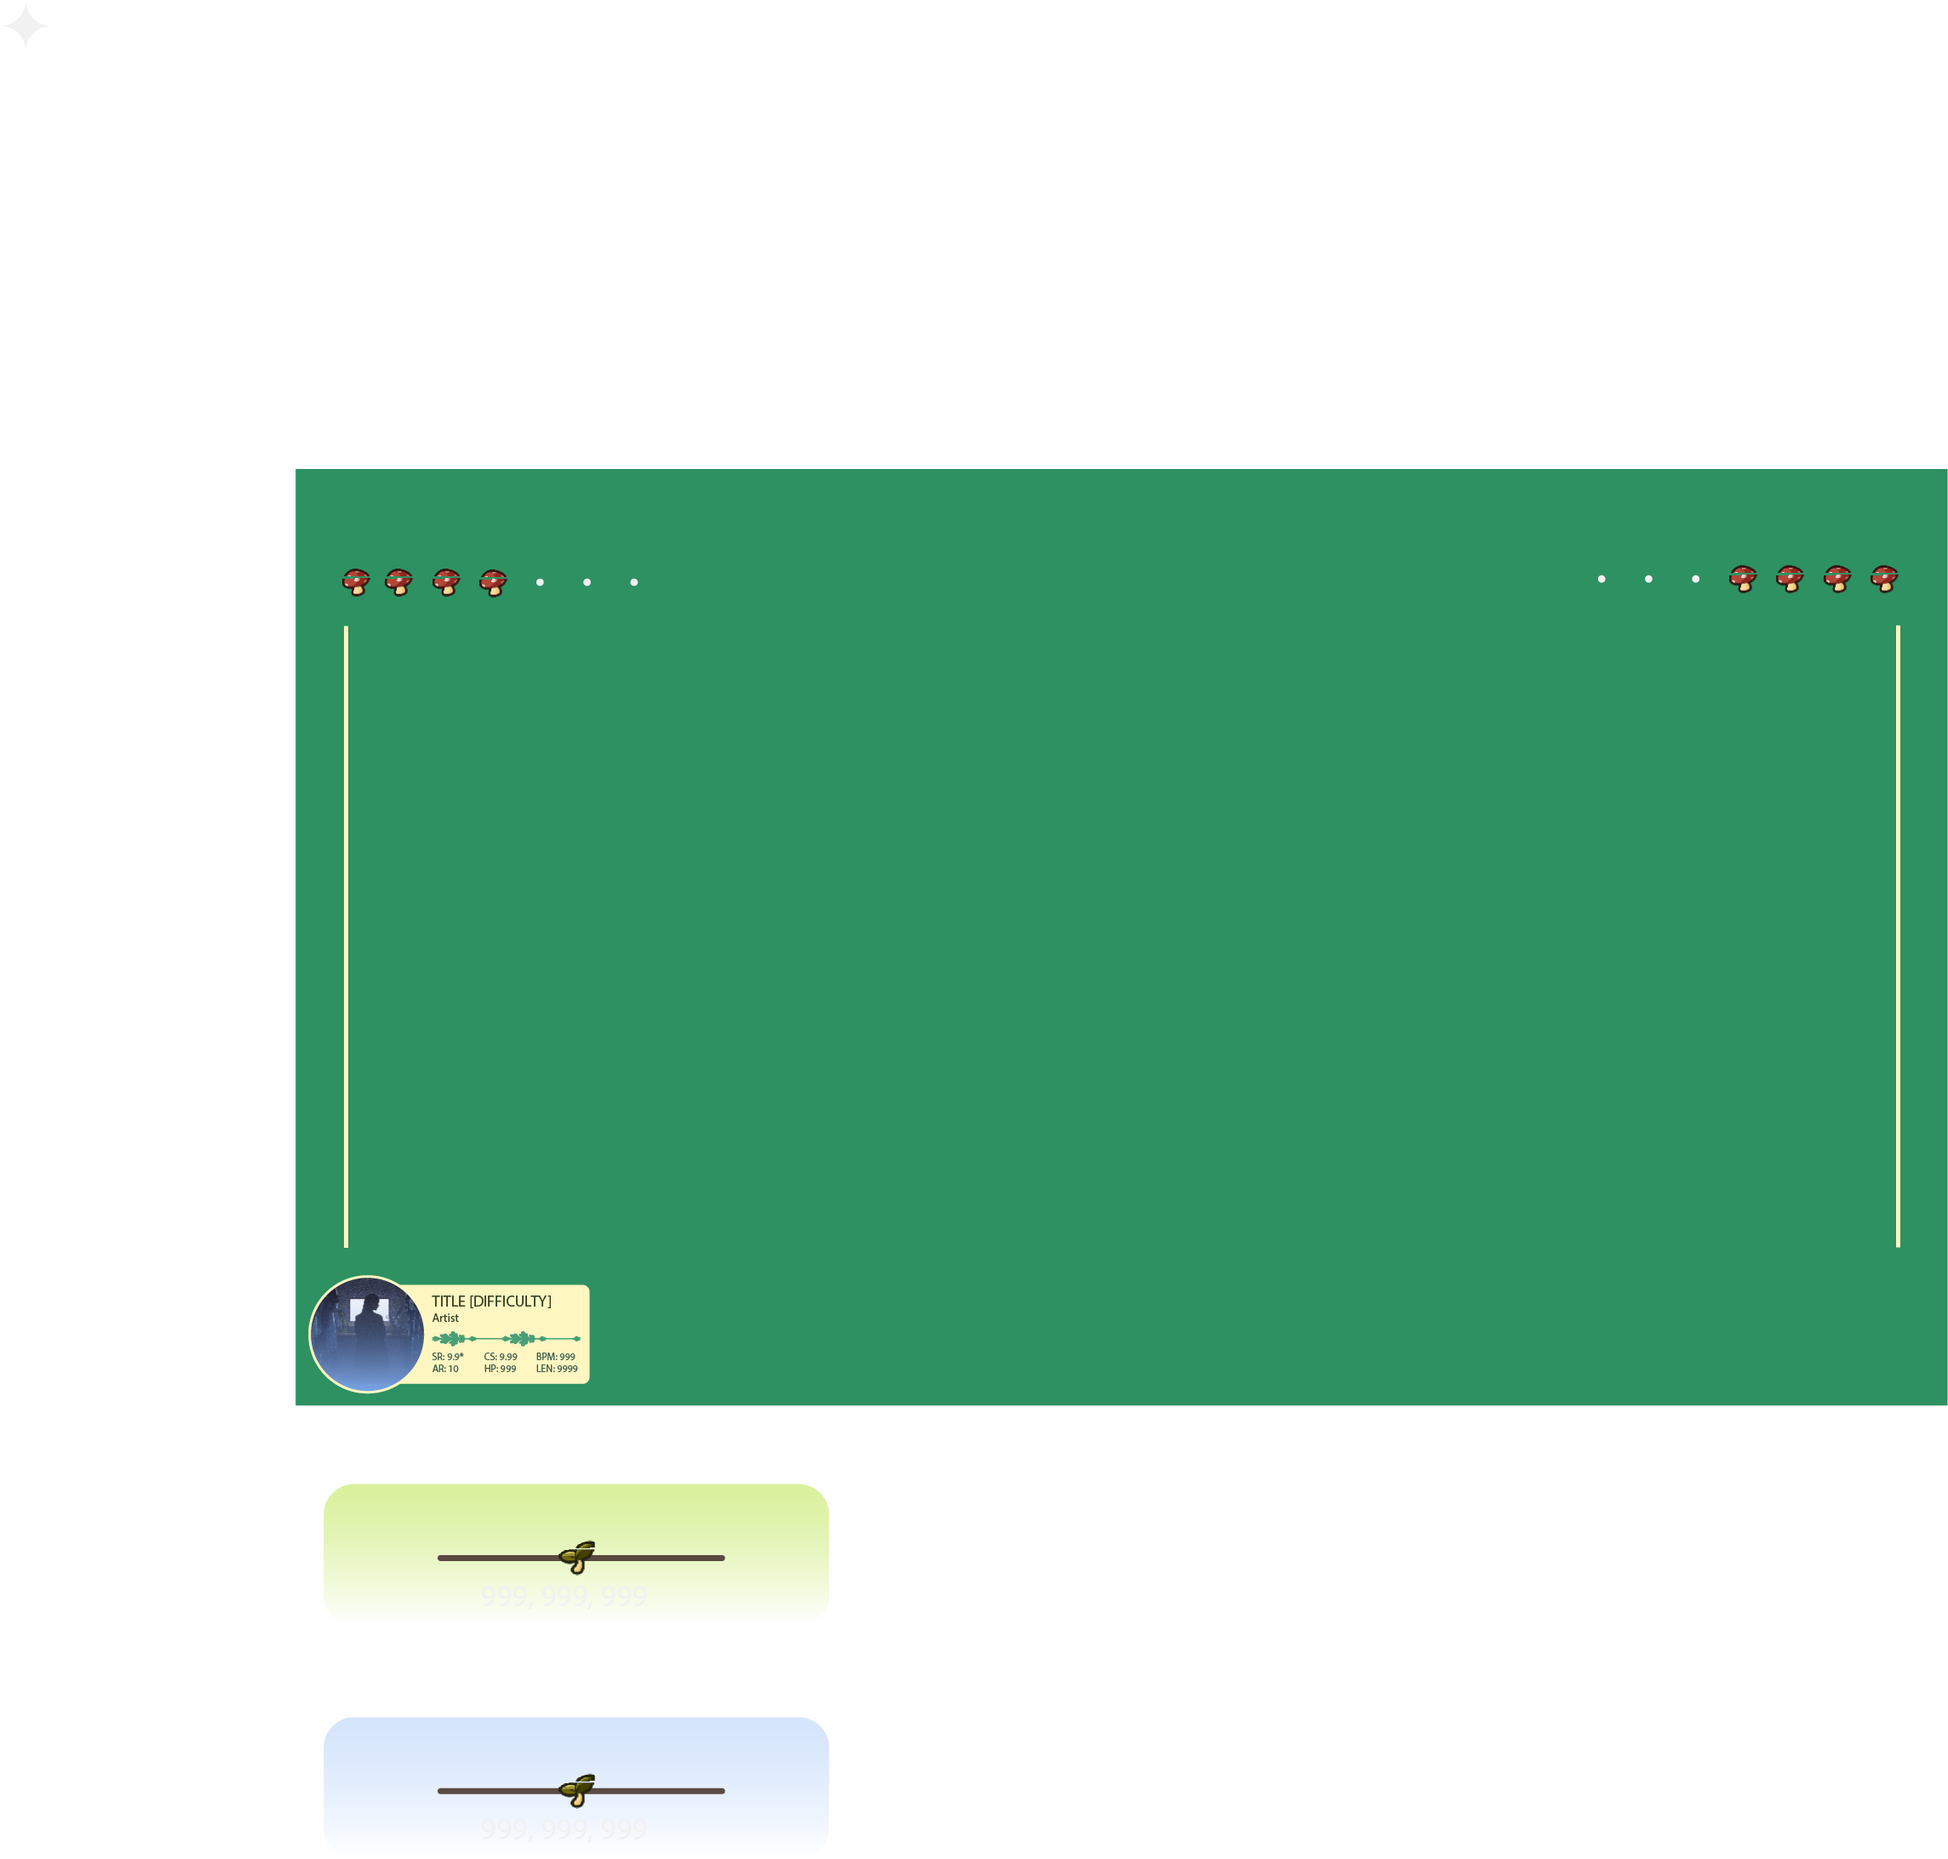
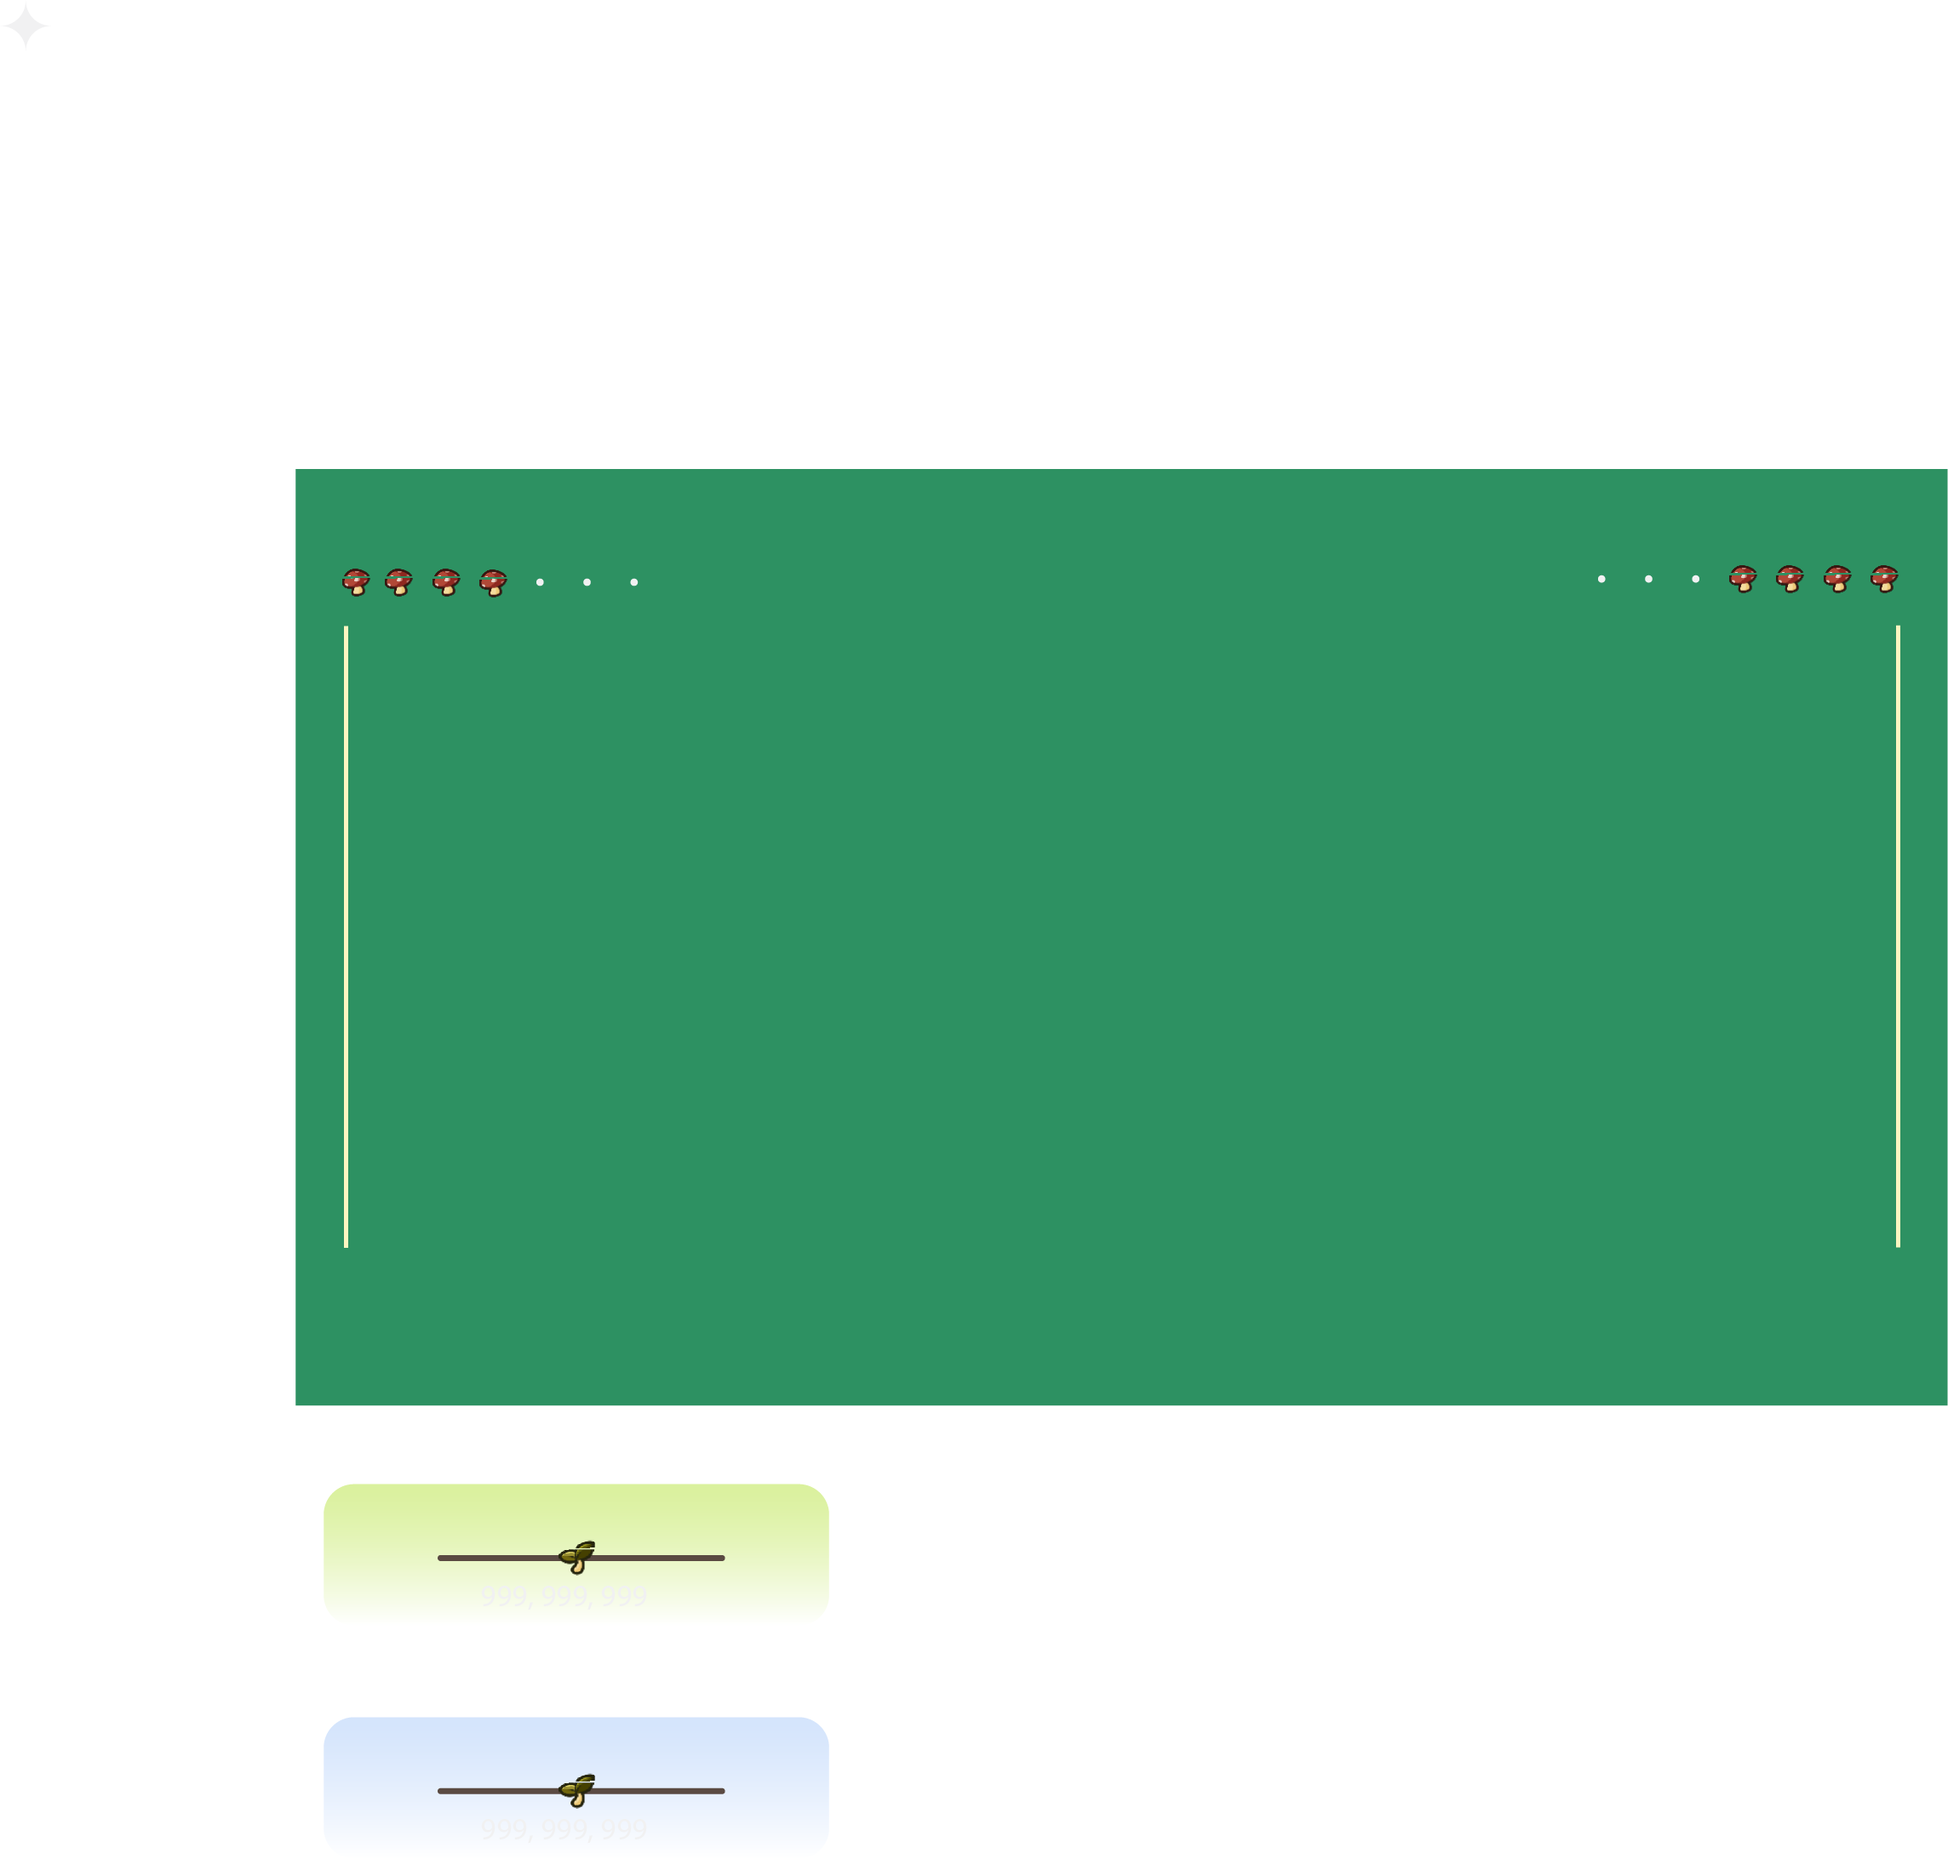
feat: complete styling now playing section

Changed region(s): [[0.1552, 0.685, 0.3103, 0.7473]]

diff --git a/main/index.html b/main/index.html
@@ -5,7 +5,13 @@
     <meta name="viewport" content="width=device-width, initial-scale=1.0">
     <title>Document</title>
 
+    <!-- Styling -->
     <link rel="stylesheet" href="style.css"></head>
+
+    <!-- Fonts -->
+    <link rel="preconnect" href="https://fonts.googleapis.com">
+    <link rel="preconnect" href="https://fonts.gstatic.com" crossorigin>
+    <link href="https://fonts.googleapis.com/css2?family=Josefin+Sans:ital,wght@0,100..700;1,100..700&display=swap" rel="stylesheet">
 </head>
 <body>
     <div class="main">
@@ -47,10 +53,23 @@
         <!-- Now Playing Circle -->
         <div class="invisible-section"></div>
         <div class="now-playing-bg"></div>
-        <img class="now-playing-circle" src="static/now-playing-circle.png">
+        <img class="now-playing-circle" src="static/now-playing/now-playing-circle.png">
 
         <!-- Now Playing Details -->
-
+        <div class="now-playing-details">
+            <img class="now-playing-rectangle" src="static/now-playing/now-playing-rectangle.png">
+            <div class="now-playing-data-left now-playing-title-difficulty"><span id="now-playing-title">TITLE</span> <span id="now-playing-difficulty">[DIFFICULTY]</span></div>
+            <div class="now-playing-data-left now-playing-artist">Artist</div>
+            <img class="now-playing-data-left now-playing-stem" src="static/now-playing/now-playing-stem.png">
+            <div class="now-playing-data-left now-playing-stats">
+                <div>SR: <span id="now-playing-sr">9.99</span>*</div>
+                <div>CS: <span id="now-playing-sr">9.9</span></div>
+                <div>BPM: <span id="now-playing-sr">999</span></div>
+                <div>AR: <span id="now-playing-sr">10</span></div>
+                <div>OD: <span id="now-playing-sr">9.9</span></div>
+                <div>LEN: <span id="now-playing-sr">9999</span></div>
+            </div>
+        </div>
     </div>
 </body>
 </html>

diff --git a/main/style.css b/main/style.css
@@ -188,6 +188,7 @@
     border-radius: 50%;
     background: center / cover;
     background-image: url("https://assets.ppy.sh/beatmaps/2377623/covers/cover.jpg");
+    z-index: 1;
 }
 .now-playing-circle {
     position: absolute;
@@ -195,8 +196,51 @@
     transform: translateY(50%);
     left: 20px;
     width: 126px;
+    z-index: 1;
 }
 
+/* Now Playing Details */
+.now-playing-details {
+    position: absolute;
+    width: 253px;
+    height: 109px;
+    bottom: 71px;
+    left: 83px;
+    transform: translateY(50%);
+}
+.now-playing-rectangle {
+    position: absolute;
+    width: 253px;
+}
+.now-playing-data-left {
+    position: absolute;
+    left: 70px;
+    font-family: "Josefin Sans";
+}
+/* Metadata */
+.now-playing-title-difficulty {
+    top: 12px;
+    letter-spacing: -1.25px;
+}
+.now-playing-artist {
+    top: 31px;
+    font-size: 13px;
+}
+/* Now Playing Stem */
+.now-playing-stem {
+    top: 51px;
+    width: 164px;
+}
+
+/* Now Playing Stats */
+.now-playing-stats {
+    top: 74px;
+    font-size: 11px;
+    display: grid;
+    grid-template-columns: repeat(3, 1fr);
+    width: 165px;
+    row-gap: 2px;
+}
 .invisible-section {
     position: absolute;
     top: 1080px;
